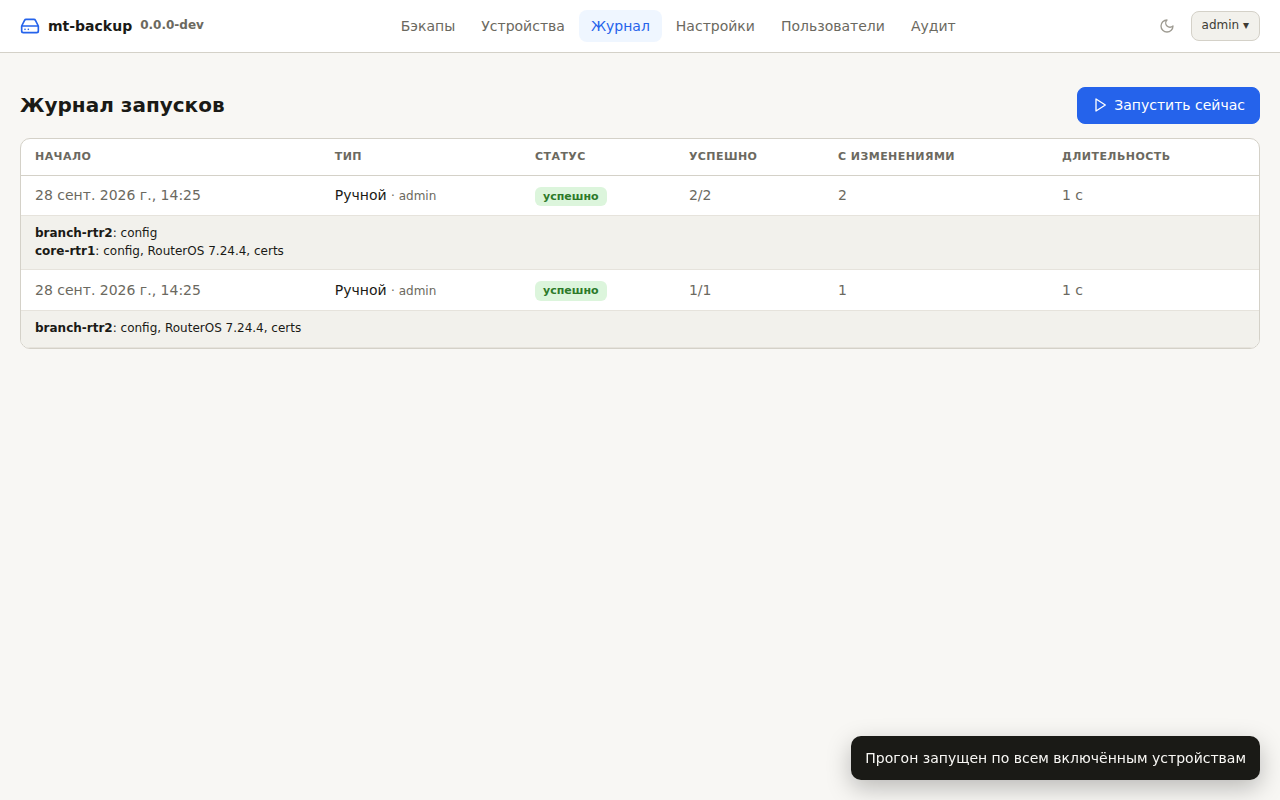
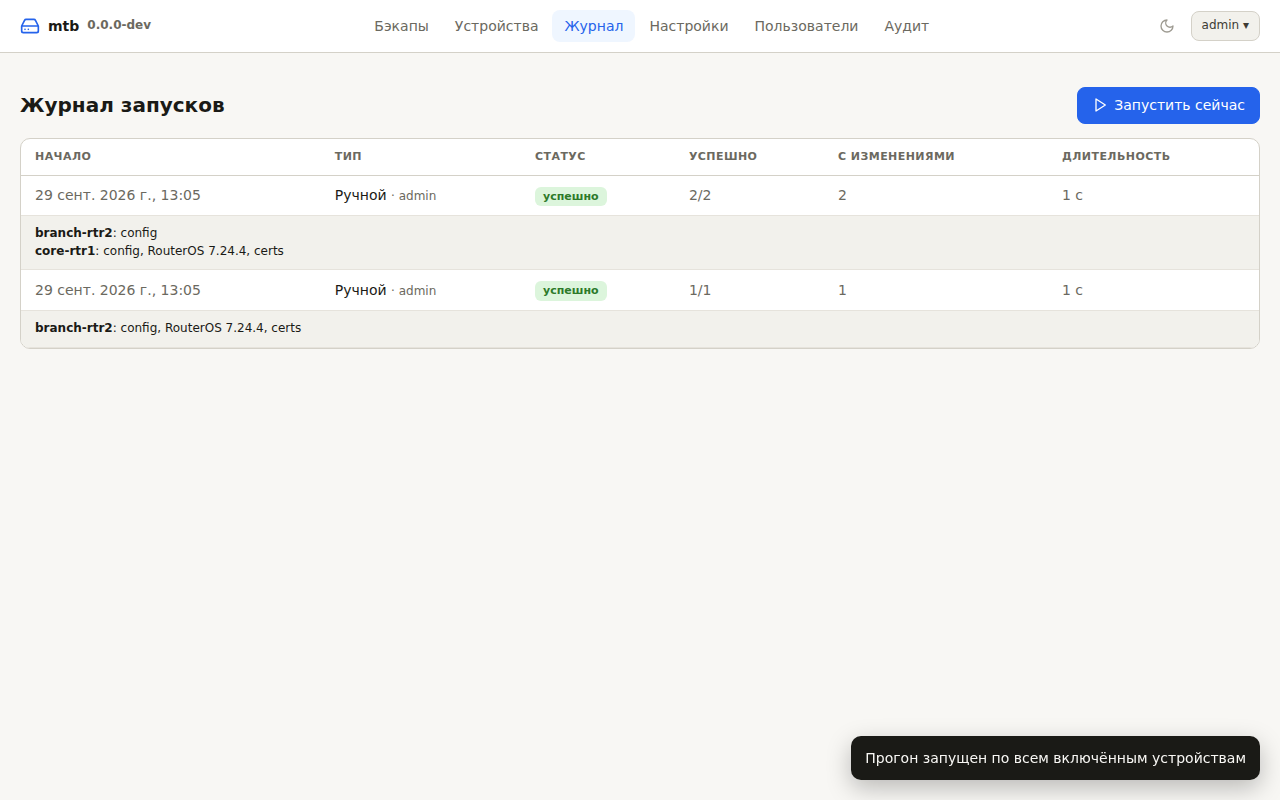
refactor: переименование проекта в mtb и обновление конфигурации
- переименовано имя модуля с MTB на mtb для соответствия стандартам
- обновлены инструкции в README.md и README.ru.md
- заменен файл mtb.env.example на .env.example и обновлен workflow релиза
- добавлена логика автоматической миграции базы данных с legacy имени mt-backup.db на новое имя
- обновлены документационные изображения и .gitignore

diff --git a/mtb/config.py b/mtb/config.py
@@ -64,8 +64,17 @@ def load_bootstrap(data_dir: str | None = None) -> Bootstrap:
     )
 
 
+LEGACY_DB_NAME = "mt" + "-backup.db"          # имя базы до переименования проекта в mtb
+
+
 def open_storage(boot: Bootstrap) -> tuple[Database, SecretBox]:
     boot.data_dir.mkdir(parents=True, exist_ok=True)
+    legacy = boot.data_dir / LEGACY_DB_NAME
+    if legacy.exists() and not boot.db_path.exists():
+        for suffix in ("", "-wal", "-shm"):
+            src = Path(str(legacy) + suffix)
+            if src.exists():
+                src.rename(str(boot.db_path) + suffix)
     return Database(boot.db_path), SecretBox(boot.data_dir / "secret.key")
 
 

diff --git a/README.ru.md b/README.ru.md
@@ -461,7 +461,7 @@ docker compose exec mtb mtb -e /data/old/.env import-config -c /data/old/devices
 ```bash
 git clone https://github.com/netcorexc0a8/mtb.git && cd mtb
 python -m venv .venv && . .venv/bin/activate && pip install -r requirements.txt
-python -m MTB serve          # http://localhost:8080, данные в ./data и ./backups
+python -m mtb serve          # http://localhost:8080, данные в ./data и ./backups
 ```
 
 **Бинарник:**
@@ -478,7 +478,7 @@ pip install pyinstaller && pyinstaller --clean --noconfirm mtb.spec
 
 ```
 mtb/
-├── MTB/
+├── mtb/
 │   ├── main.py          # CLI и сервис (расписание + веб)
 │   ├── config.py        # запуск из окружения, настройки и устройства из SQLite
 │   ├── db.py            # SQLite: схема и миграции

diff --git a/README.md b/README.md
@@ -465,7 +465,7 @@ For a detailed log, use `LOG_LEVEL=DEBUG`.
 ```bash
 git clone https://github.com/netcorexc0a8/mtb.git && cd mtb
 python -m venv .venv && . .venv/bin/activate && pip install -r requirements.txt
-python -m MTB serve          # http://localhost:8080, data in ./data and ./backups
+python -m mtb serve          # http://localhost:8080, data in ./data and ./backups
 ```
 
 **Binary:**
@@ -482,7 +482,7 @@ For compatibility with older glibc, build inside `python:3.11-slim-buster`, as C
 
 ```
 mtb/
-├── MTB/
+├── mtb/
 │   ├── main.py          # CLI and service (schedule + web)
 │   ├── config.py        # startup from environment; settings and devices from SQLite
 │   ├── db.py            # SQLite: schema and migrations
